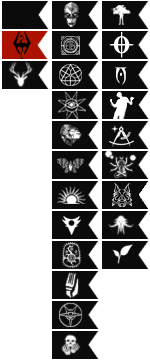
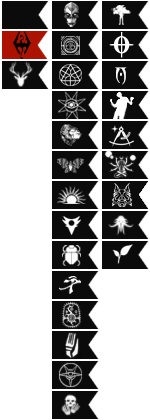
new flair

Changed region(s): [[0.3467, 0.0, 0.9867, 1.0], [0.0, 0.0, 0.32, 0.2444]]

diff --git a/teslore/flair/public.sass b/teslore/flair/public.sass
@@ -1,38 +1,44 @@
 /* /flair/public/ */
 span.flair
-  &.flair-Armiger                                         // Buoyant Armigers
+  &.flair-Armiger                                           // Buoyant Armigers
     background:
       position: -50px 0
-  &.flair-Dwemer                                          // Dwemer Scholar
+  &.flair-Dwemer                                            // Dwemer Scholar
     background:
       position: -50px -30px
-  &.flair-Julianos                                        // Follower of Julianos
+  &.flair-Julianos                                          // Follower of Julianos
     background:
       position: -50px -60px
-  &.flair-Mages                                           // Mages Guild Scholar
+  &.flair-Mages                                             // Mages Guild Scholar
     background:
       position: -50px -90px
-  &.flair-Marukhati                                       // Marukhati Selective
+  &.flair-Marukhati                                         // Marukhati Selective
     background:
       position: -50px -120px
-  &.flair-Moth                                            // Ancestor Moth Cultist
+  &.flair-Moth                                              // Ancestor Moth Cultist
     background:
       position: -50px -150px
-  &.flair-Mythic                                          // Mythic Dawn Cultist
+  &.flair-Mythic                                            // Mythic Dawn Cultist
     background:
       position: -50px -180px
-  &.flair-Psijic                                          // Psijic Monk
+  &.flair-Psijic                                            // Psijic Monk
     background:
       position: -50px -210px
-  &.flair-Telvanni                                        // Telvanni Recluse
+  &.flair-Scarab                                            // Tonal Architect      
     background:
       position: -50px -240px
-  &.flair-Tribunal                                        // Member of the Tribunal Temple
+  &.flair-Synod                                             // Synod Cleric
     background:
       position: -50px -270px
-  &.flair-Winterhold                                      // Scholar of Winterhold
+  &.flair-Telvanni                                          // Telvanni Recluse
     background:
       position: -50px -300px
-  &.flair-Worm                                            // Black Worm Anchorite
+  &.flair-Tribunal                                          // Member of the Tribunal Temple
     background:
       position: -50px -330px
+  &.flair-Winterhold                                        // Scholar of Winterhold
+    background:
+      position: -50px -360px
+  &.flair-Worm                                              // Black Worm Anchorite
+    background:
+      position: -50px -390px
